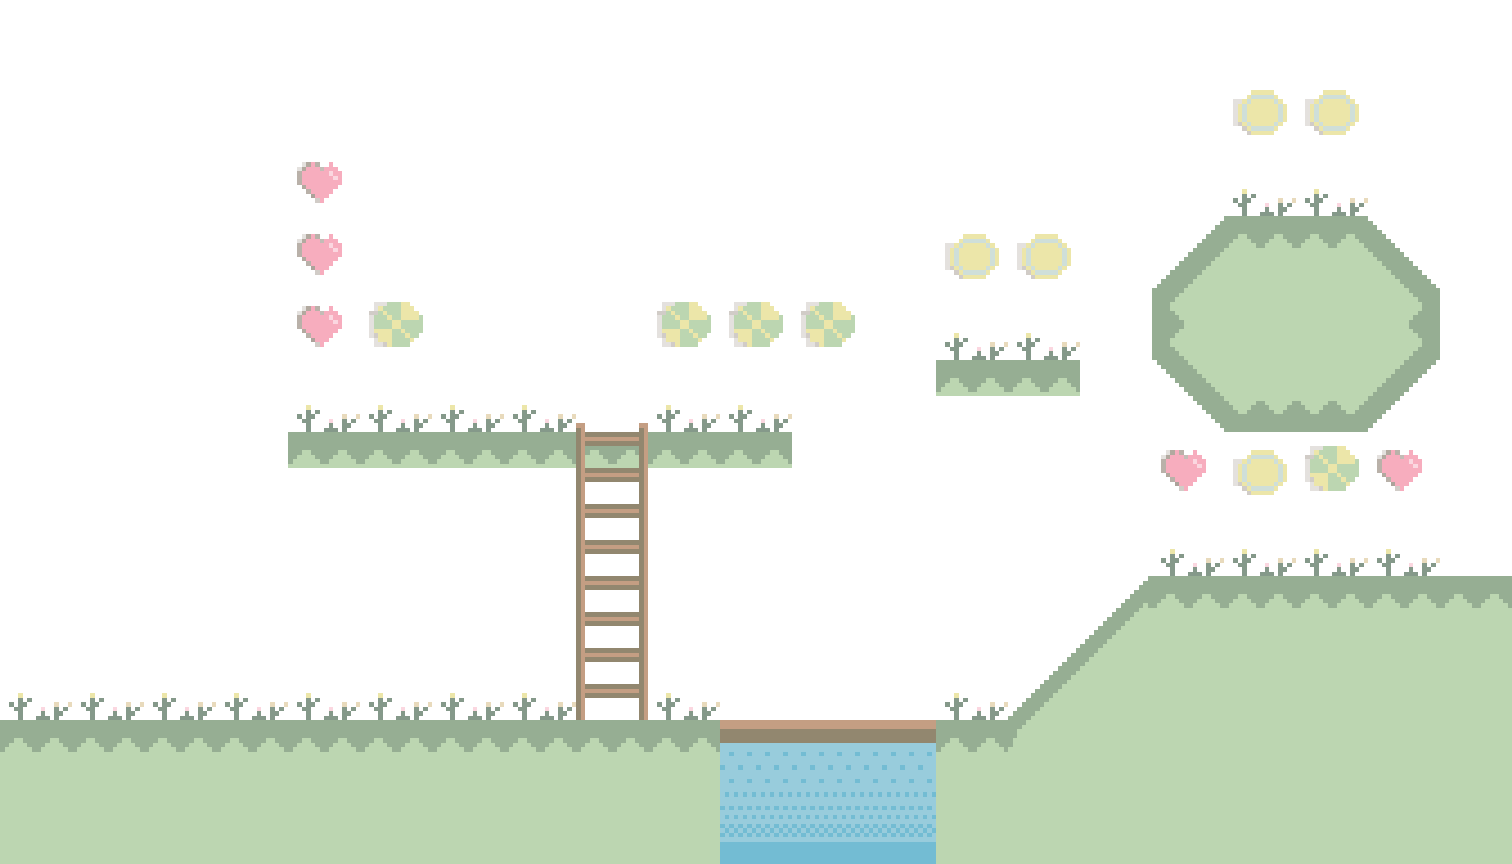
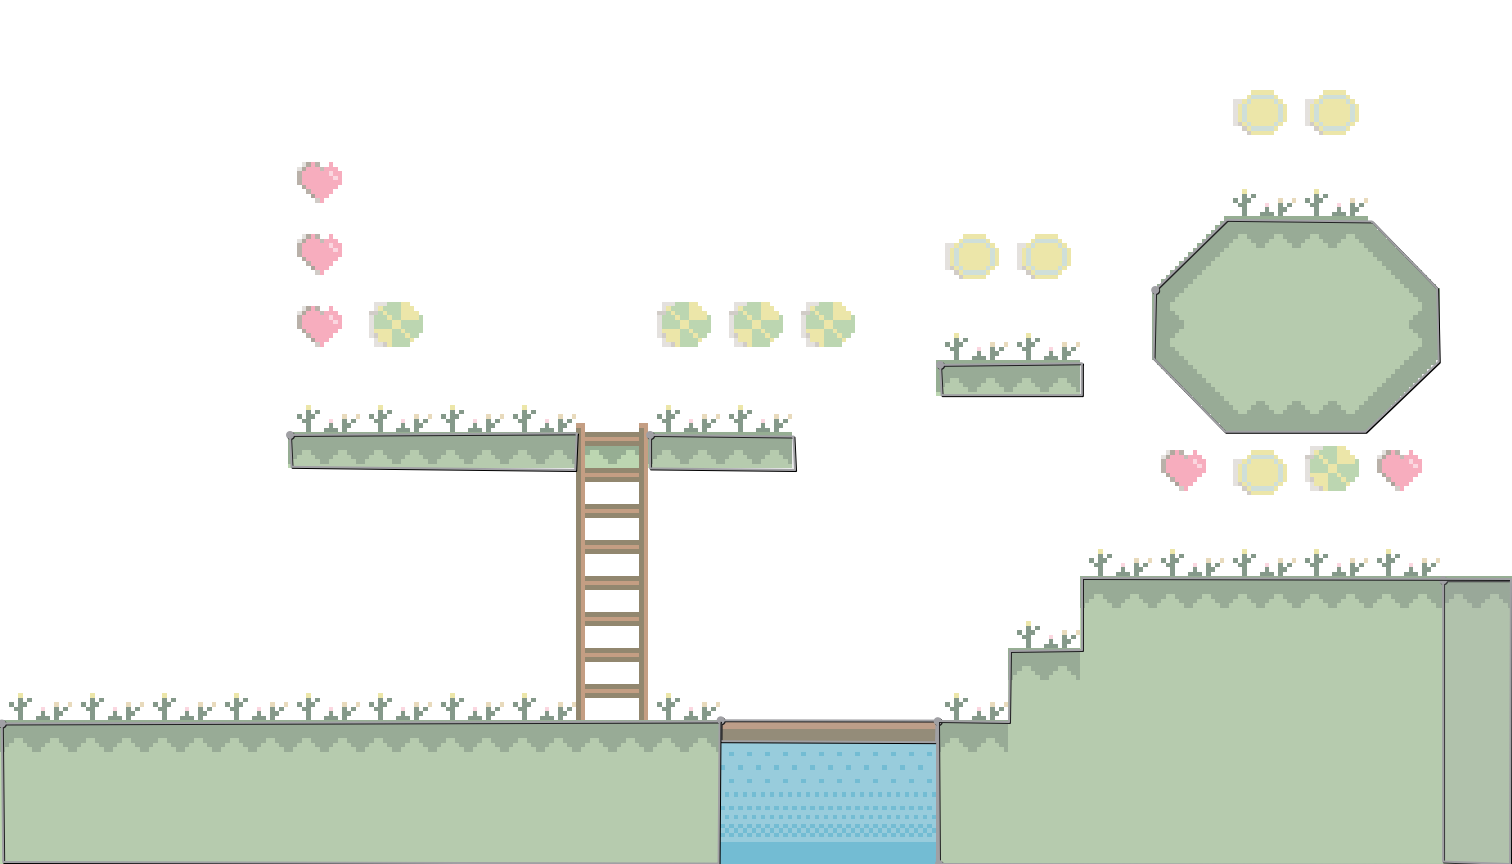
fix collisions movements

diff --git a/src/index.ts b/src/index.ts
@@ -1,136 +1,48 @@
-import { Application, Sprite, Assets, Graphics } from 'pixi.js';
+import { Application, Assets, Graphics } from 'pixi.js';
+import {assetsLoad, checkChildCollision, drawGraphic} from "./utils.ts";
+import {IColisionsJSON, ILayer} from "./interfaces.ts";
 
-// Asynchronous IIFE
 (async () => {
-    // Create a PixiJS application.
     const app = new Application();
-
-    // Initialize the application.
     await app.init({ background: '#000000', resizeTo: window });
-
-    // Adding the application's canvas to the DOM body.
     document.body.appendChild(app.canvas);
 
-    // Load the tilemap and player assets
-    const tileMap01 = await Assets.load('src/assets/tilemap01.1.png');
-    const bg1 = new Sprite(tileMap01);
+    const treesBg = await assetsLoad('src/assets/project-1.png');
+    treesBg.scale.set(4.5);
+    app.stage.addChild(treesBg);
+
+    const bg1 = await assetsLoad('src/assets/tilemap01.1.png');
     app.stage.addChild(bg1);
 
-    const playerSprite = await Assets.load('https://pixijs.com/assets/bunny.png');
-    const player = new Sprite(playerSprite);
-    player.x = 100; // Initial X position
-    player.y = 400; // Initial Y position
-    player.width = 50; // Adjust as needed for scaling
-    player.height = 50; // Adjust as needed for scaling
+    const player = await assetsLoad('https://pixijs.com/assets/bunny.png');
+    player.x = 100;
+    player.width = 50;
+    player.height = 50;
     app.stage.addChild(player);
 
-    // Load the collider JSON and process the colliders
-    const colliderJson = await Assets.load('src/assets/tilemap01.json');
-    const collidersLayer = colliderJson.layers.find((layer: any) => layer.name === 'colliders');
-
     const collidersGraphics = new Graphics();
-
-    function processCollisionLayer() {
-        if (!collidersLayer) {
-            console.error('No colliders layer found');
-            return;
-        }
-
-        collidersLayer.objects.forEach((object: any) => {
-            const childGraphics = new Graphics();
-
-            if (object.polygon) {
-                // Draw the collision polygon
-                childGraphics.beginFill(0xff0000, 0); // Red with 50% opacity
-                //childGraphics.lineStyle(0, 0xff0000);
-                childGraphics.moveTo(object.x + object.polygon[0].x, object.y + object.polygon[0].y);
-                object.polygon.forEach((point: any, index: number) => {
-                    if (index > 0) {
-                        childGraphics.lineTo(object.x + point.x, object.y + point.y);
-                    }
-                });
-                childGraphics.closePath();
-                childGraphics.endFill();
-            } else {
-                // For rectangular colliders
-                childGraphics.beginFill(0xff0000, 0.5);
-                childGraphics.drawRect(object.x, object.y, object.width, object.height);
-                childGraphics.endFill();
-            }
-
+    const colliderJson: IColisionsJSON = await Assets.load('src/assets/tilemap01.json');
+    const collidersLayer: ILayer | undefined = colliderJson.layers.find((layer: ILayer) => layer.name === 'colliders')
+    if (collidersLayer) {
+        collidersLayer.objects.forEach((object) => {
+            const childGraphics = drawGraphic(object)
             childGraphics.scale.set(4.5);
             collidersGraphics.addChild(childGraphics);
         });
-
         app.stage.addChild(collidersGraphics);
     }
 
-    processCollisionLayer();
+    const steps = 10; // Horizontal movement speed
 
-    // Collision Detection Function
-    function checkChildCollision(player: Sprite, parentGraphics: Graphics): string | null {
-        for (const child of parentGraphics.children) {
-            if (child instanceof Graphics) {
-                const playerBounds = player.getBounds();
-                const childBounds = child.getBounds();
-
-                if (
-                    playerBounds.x < childBounds.x + childBounds.width &&
-                    playerBounds.x + playerBounds.width > childBounds.x &&
-                    playerBounds.y < childBounds.y + childBounds.height &&
-                    playerBounds.y + playerBounds.height > childBounds.y
-                ) {
-                    // Determine collision side
-                    const overlapX = Math.min(
-                        playerBounds.x + playerBounds.width - childBounds.x,
-                        childBounds.x + childBounds.width - playerBounds.x
-                    );
-                    const overlapY = Math.min(
-                        playerBounds.y + playerBounds.height - childBounds.y,
-                        childBounds.y + childBounds.height - playerBounds.y
-                    );
-
-                    if (overlapX < overlapY) {
-                        return playerBounds.x < childBounds.x ? 'right' : 'left';
-                    } else {
-                        return playerBounds.y < childBounds.y ? 'down' : 'up';
-                    }
-                }
-            }
-        }
-        return null;
-    }
-
-    const steps = 15;
-    let isMoving = { x: 0, y: 0 }; // Track movement intent
-
-    // Game loop
     app.ticker.add(() => {
-        const collisionSide = checkChildCollision(player, collidersGraphics);
 
-        if (collisionSide) {
-            // Stop movement only in the direction of the collision
-            if (collisionSide === 'right' && isMoving.x > 0) isMoving.x = 0;
-            if (collisionSide === 'left' && isMoving.x < 0) isMoving.x = 0;
-            if (collisionSide === 'down' && isMoving.y > 0) isMoving.y = 0;
-            if (collisionSide === 'up' && isMoving.y < 0) isMoving.y = 0;
-        }
-
-        // Apply movement
-        player.x += isMoving.x;
-        player.y += isMoving.y;
     });
-
-    // Player movement
     window.addEventListener('keydown', (e) => {
-        if (e.key === 'ArrowRight') isMoving.x = steps;
-        if (e.key === 'ArrowLeft') isMoving.x = -steps;
-        if (e.key === 'ArrowUp') isMoving.y = -steps;
-        if (e.key === 'ArrowDown') isMoving.y = steps;
-    });
+        const collisionSide = checkChildCollision(player, collidersGraphics);
+        if (e.key === 'ArrowRight' && collisionSide !== 'right') player.x += steps;
+        if (e.key === 'ArrowLeft' && collisionSide !== 'left') player.x -= steps;
+        if (e.key === 'ArrowUp' && collisionSide !== 'up') player.y -= steps;
+        if (e.key === 'ArrowDown' && collisionSide !== 'down') player.y += steps;
 
-    window.addEventListener('keyup', (e) => {
-        if (e.key === 'ArrowRight' || e.key === 'ArrowLeft') isMoving.x = 0;
-        if (e.key === 'ArrowUp' || e.key === 'ArrowDown') isMoving.y = 0;
     });
 })();

diff --git a/src/utils.ts b/src/utils.ts
@@ -1,0 +1,52 @@
+import { Assets, Graphics, Sprite } from "pixi.js";
+import { IObjectPolygon } from "./interfaces.ts";
+
+export async function assetsLoad (src: string): Promise < Sprite >{
+    const asset = await Assets.load(src);
+    return new Sprite(asset);
+}
+
+export function drawGraphic (object: IObjectPolygon){
+    const childGraphics = new Graphics();
+    childGraphics.beginFill(0xff0000, 0.5);
+    childGraphics.lineStyle(1, 0xff0000);
+    childGraphics.moveTo(object.x + object.polygon[0].x, object.y + object.polygon[0].y);
+    object.polygon.forEach((point, index) => {
+        if (index > 0) {
+            childGraphics.lineTo(object.x + point.x, object.y + point.y);
+        }
+    });
+    childGraphics.closePath();
+    childGraphics.endFill();
+
+    return childGraphics
+}
+
+export  function checkChildCollision(player: Sprite, parentGraphics: Graphics): string | null {
+    for (const child of parentGraphics.children) {
+        const playerBounds = player.getBounds();
+        const childBounds = child.getBounds();
+        if (
+            playerBounds.x < childBounds.x + childBounds.width &&
+            playerBounds.x + playerBounds.width > childBounds.x &&
+            playerBounds.y < childBounds.y + childBounds.height &&
+            playerBounds.y + playerBounds.height > childBounds.y
+        ) {
+            const overlapX = Math.min(
+                playerBounds.x + playerBounds.width - childBounds.x,
+                childBounds.x + childBounds.width - playerBounds.x
+            );
+            const overlapY = Math.min(
+                playerBounds.y + playerBounds.height - childBounds.y,
+                childBounds.y + childBounds.height - playerBounds.y
+            );
+
+            if (overlapX < overlapY) {
+                return playerBounds.x < childBounds.x ? 'right' : 'left';
+            } else {
+                return playerBounds.y < childBounds.y ? 'down' : 'up';
+            }
+        }
+    }
+    return null;
+}

diff --git a/src/interfaces.ts b/src/interfaces.ts
@@ -1,0 +1,29 @@
+export interface ICoordinates {
+    "x":number
+    "y":number
+}
+export interface IObjectPolygon {
+    "type":string
+    "name":string
+
+    "visible":boolean,
+
+    "width":number
+    "height":number
+    "x":number
+    "y":number
+    "id":number
+    "rotation":number
+
+    "polygon": ICoordinates[]
+}
+
+export interface ILayer {
+    draworder?: string
+    id:number
+    name:string
+    objects:IObjectPolygon[]
+}
+export interface IColisionsJSON {
+    layers: ILayer[]
+}
